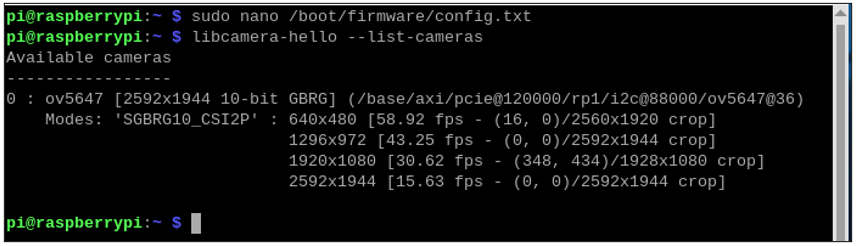
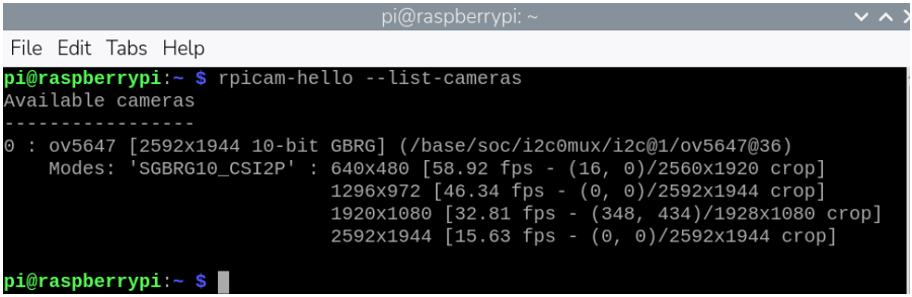
update

diff --git a/docs/source/conf.py b/docs/source/conf.py
@@ -7,14 +7,28 @@
 # add these directories to sys.path here.
 from datetime import datetime
 import os
+import subprocess
 import pathlib
 import sys
 
 sys.path.insert(0, pathlib.Path(__file__).parents[2].resolve().as_posix())
 
-os.system("rm -r freenove_Kit")
-os.system("git clone --depth 1 https://github.com/Freenove/Freenove_Camera_Module_for_Raspberry_Pi freenove_Kit")
+repo_url = "https://github.com/Freenove/Freenove_Camera_Module_for_Raspberry_Pi"
+repo_dir = "freenove_Kit"
 
+if os.path.isdir(repo_dir):
+    print(f"Directory '{repo_dir}' found. Pulling latest changes...")
+    try:
+        subprocess.run(["git", "-C", repo_dir, "pull"], check=True)
+    except subprocess.CalledProcessError as e:
+        print(f"Error pulling repository: {e}")
+else:
+    print(f"Directory '{repo_dir}' not found. Cloning repository...")
+    try:
+        subprocess.run(["git", "clone", "--depth", "1", repo_url, repo_dir], check=True)
+    except subprocess.CalledProcessError as e:
+        print(f"Error cloning repository: {e}")
+        
 project = "fnk0056-docs"
 # <!!!BEGIN!!!>
 from docutils import nodes

diff --git a/docs/source/fnk0056/codes/tutorial/Get_Started.rst b/docs/source/fnk0056/codes/tutorial/Get_Started.rst
@@ -9,67 +9,151 @@ Please note that our FNK0056 prodcut, which comes with the camera model OV5647, 
 
 This tutorial introduces the use of product FNK0056(B) on Raspberry Pi.
 
-+-------------+--------------+------------------------+-----------------------+
-| Product SKU | Camera Model | Work with Raspberry Pi | Wrok with Jetson Nano |
-+=============+==============+========================+=======================+
-| FNK0056     | OV5647       | Yes(this tutorial)     | No                    |
-+-------------+--------------+------------------------+-----------------------+
-| FNK0056B    | IMX219       | Yes(this tutorial)     | Yes                   |
-+-------------+--------------+------------------------+-----------------------+
+.. table::
+    :align: center
+    :class: table-line
+    
+    +-------------+--------------+------------------------+-----------------------+
+    | Product SKU | Camera Model | Work with Raspberry Pi | Wrok with Jetson Nano |
+    +=============+==============+========================+=======================+
+    | FNK0056     | OV5647       | Yes(this tutorial)     | No                    |
+    +-------------+--------------+------------------------+-----------------------+
+    | FNK0056B    | IMX219       | Yes(this tutorial)     | Yes                   |
+    +-------------+--------------+------------------------+-----------------------+
 
 Step 1 What you will need
 *************************************
 
-Raspberry Pi computer with a Camera Module port
+**Raspberry Pi computer with a Camera Module port**
 
 All current models of Raspberry Pi have a port for connecting the Camera Module.
 
 .. image:: ../_static/imgs/Get_Started/start00.png
    :align: center
 
-.. note::
+**A Raspberry Pi Camera Module (Included in this kit)**
+
+.. table::
+    :align: center
+    :class: table-line
     
-    If you want to use a Raspberry Pi Zero, you need a Camera Module ribbon cable that fits the Raspberry Pi Zero's smaller Camera Module port.
+    +----------------------------------+-----------------------------------+
+    | **FNK0056 OV5647 Camera Module** | **FNK0056B IMX219 Camera Module** |
+    +----------------------------------+-----------------------------------+
+    | |start17|                        | |start18|                         |
+    +----------------------------------+-----------------------------------+
 
-**Raspberry Pi Camera Module**
+.. |start17| image:: ../_static/imgs/Get_Started/start17.png
+.. |start18| image:: ../_static/imgs/Get_Started/start18.png
 
-.. image:: ../_static/imgs/Get_Started/start01.png
-   :align: center
+A Camera cable (Included in this kit)
 
-There are two versions of the Camera Module:
+.. table::
+    :align: center
+    :class: table-line
+    
+    +------------------------------------------------------------------+
+    | **Ribbon cable (15cm) for RaspberryPi 4B/3B+/3B/3A+/2B/1B+/1A+** |
+    |                                                                  |
+    | |start19|                                                        |
+    +------------------------------------------------------------------+
+    | **Ribbon cable (15cm) for Raspberry Pi 5 /Zero 2 W/Zero W/Zero** |
+    |                                                                  |
+    | |start20|                                                        |
+    +------------------------------------------------------------------+
 
-The standard version (https://www.raspberrypi.org/products/camera-module-v2/), which is designed to
+.. |start19| image:: ../_static/imgs/Get_Started/start19.png
+.. |start20| image:: ../_static/imgs/Get_Started/start20.png
 
-take pictures in normal light
-
-The NoIR version (https://www.raspberrypi.org/products/pi-noir-camera-v2/), which doesn't have an infrared filter, so you can use it together with an infrared light source to take pictures in the dark.
-
-Step 2 Connect and install the Camera Module
+Step 2 Assembly and Wiring
 ************************************************
+
+Wiring
+================================================
+
+Camera Side
+------------------------------------------------
+
+1.	Gently pull down the plastic clip. 
+
+.. table::
+    :align: center
+    :class: table-line
+    
+    +-----------+-----------+
+    | |start21| | |start22| |
+    +-----------+-----------+
+
+.. |start21| image:: ../_static/imgs/Get_Started/start21.png
+.. |start22| image:: ../_static/imgs/Get_Started/start22.png
+
+2.	Insert the cable and press back the click.
+
+.. table::
+    :align: center
+    :class: table-line
+    
+    +-----------------------------------------------+-----------+-----------+
+    |                                               | OV5647    | IMX219    |
+    +===============================================+===========+===========+
+    | with Raspberry Pi 4B /3B+/3B/3A+/2B/1B+/1A+   | |start23| | |start24| |
+    +-----------------------------------------------+-----------+-----------+
+    | with Raspberry Pi 5/Zero 2 W/Zero W/Zero      | |start25| | |start26| |
+    +-----------------------------------------------+-----------+-----------+
+
+.. |start23| image:: ../_static/imgs/Get_Started/start23.png
+.. |start24| image:: ../_static/imgs/Get_Started/start24.png
+.. |start25| image:: ../_static/imgs/Get_Started/start25.png
+.. |start26| image:: ../_static/imgs/Get_Started/start26.png
+
+Raspberry Pi Side
+--------------------------------------------------
 
 **Ensure your Raspberry Pi is turned off.**
 
 1. Locate the Camera Module port.
 
-.. image:: ../_static/imgs/Get_Started/start02.png
+.. image:: ../_static/imgs/Get_Started/start27.png
    :align: center
 
 2. Gently pull up on the edges of the port's plastic clip.
 
-.. image:: ../_static/imgs/Get_Started/start03.png
+.. image:: ../_static/imgs/Get_Started/start28.png
    :align: center
 
 3. Insert the Camera Module ribbon cable; make sure the connectors at the bottom of the ribbon cable are facing the contacts in the port.
 
-.. image:: ../_static/imgs/Get_Started/start04.png
+.. image:: ../_static/imgs/Get_Started/start29.png
    :align: center
 
 4. Push the plastic clip back into place.
 
-.. image:: ../_static/imgs/Get_Started/start05.png
+.. image:: ../_static/imgs/Get_Started/start30.png
    :align: center
 
-.. image:: ../_static/imgs/Get_Started/start06.png
+.. table::
+    :align: center
+    :class: table-line
+    
+    +----------------------------------------------------------+
+    | Physical pictures with Raspberry Pi 4 and 5 as examples. |
+    +----------------------------------------------------------+
+    | Raspberry Pi 4                                           |
+    |                                                          |
+    | |start31|                                                |
+    +----------------------------------------------------------+
+    | Raspberry Pi 5                                           |
+    |                                                          |
+    | |start32|                                                |
+    +----------------------------------------------------------+
+
+.. |start31| image:: ../_static/imgs/Get_Started/start31.png
+.. |start32| image:: ../_static/imgs/Get_Started/start32.png
+
+Assemble the camera support
+------------------------------------------------
+
+.. image:: ../_static/imgs/Get_Started/start33.png
    :align: center
 
 Step 3 How to control the Camera Module via the command line
@@ -99,13 +183,7 @@ Take the ov5647 camera as an example.
 
 3.	Add the following instruction at the very bottom.
 
-If you are a Raspberry PI 5, add the following command.
-
-.. code-block:: text
-    
-    dtoverlay=ov5647,cam0
-
-If you are not a Raspberry PI 5, add the following command.
+If you are **not a Raspberry PI 5**, add the following command.
 
 .. code-block:: text
     
@@ -114,15 +192,24 @@ If you are not a Raspberry PI 5, add the following command.
 .. image:: ../_static/imgs/Get_Started/start09.png
    :align: center
 
+If you are a **Raspberry PI 5**, add the following command.
+
+.. code-block:: text
+    
+    dtoverlay=ov5647,cam0
+
+.. image:: ../_static/imgs/Get_Started/start34.png
+   :align: center
+
 :red:`Note:`
 
-1. if your camera is imx219, please change ov5647 to imx219.
+   1. :red:`If your camera is imx219, please change ov5647 to imx219.`
 
-2. If you actually connect the camera to cam1 instead of cam0, change cam0 to cam1.
+   2. :red:`If you actually connect the camera to cam1 instead of cam0, change cam0 to cam1.`
 
-4. Save the file and exit.
+Save the file and exit.
 
-5. Reboot your raspberry pi.
+Reboot your raspberry pi.
 
 .. code-block:: console
     
@@ -132,7 +219,7 @@ Before testing the camera, run the following command to see if the camera can be
 
 .. code-block:: console
     
-    libcamera-hello --list-cameras
+    rpicam-hello -list-cameras
 
 .. image:: ../_static/imgs/Get_Started/start10.png
    :align: center
@@ -148,13 +235,13 @@ Or this command:
 
 /dev/video0 indicates the camera is connected. If you do not find this device, please check the camera wiring. You may reconnect it and try again.
 
-Please note that when operating the camera wiring, you need to shut down the raspberry pi first; otherwise, it may burn the camera.
+If the camera cannot be detected with the above two commands, please check the camera wiring. You may try reconnecting it to ensure good contact. 
 
-You can check that libcamera is working by opening a command window and typing:
+Always ensure that your Raspberry Pi is not powered before operating the camera wiring to avoid burning them.
 
 .. code-block:: console
     
-    libcamera-hello
+    rpicam-hello
 
 You should see a camera preview window for about five seconds. If you do not, please refer to the Raspberry Pi camera documentation.
 
@@ -162,7 +249,7 @@ You can also enter the following command to capture an image with a resolution o
 
 .. code-block:: console
     
-    libcamera-jpeg -o test.jpg -t 2000 -width 800 -height 600
+    rpicam-jpeg -o test.jpg -t 2000 --width 800 --height 600
 
 If you have any concerns, please contact us via email: support@freenove.com
 
@@ -194,7 +281,10 @@ Or you can Open Terminal,
 
 .. code-block:: console
 
-    https://github.com/Freenove/Freenove_Camera_Module_for_Raspberry_Pi
+    git clone https://github.com/Freenove/Freenove_Camera_Module_for_Raspberry_Pi
+
+.. image:: ../_static/imgs/Get_Started/start35.png
+   :align: center
 
 2. Enter Raspberry_Pi folder with cd command.
 
@@ -280,7 +370,7 @@ The supported transforms are:
 
 It's important to realise that the display transform discussed here does not have any effect on the actual images received from the camera. It only applies the requested transform as it renders the pixels onto the screen. We’ll encounter camera transforms again when it comes actually to transforming the images as the camera delivers them. Please also note that in the example above, the start_preview() function must be called before the call to picam2.start() . Finally, if the camera images have a different aspect ratio to the preview window, they will be letter- or pillar-boxed to fit, preserving the image’s proper aspect ratio.
 
-Next use the camera to capture videos:
+**Next use the camera to capture videos:**
 
 In Picamera2, the process of capturing and encoding video is largely automatic. The application only has to define what encoder it wants to use to compress the image data, and how it wants to output this compressed data stream.
 
